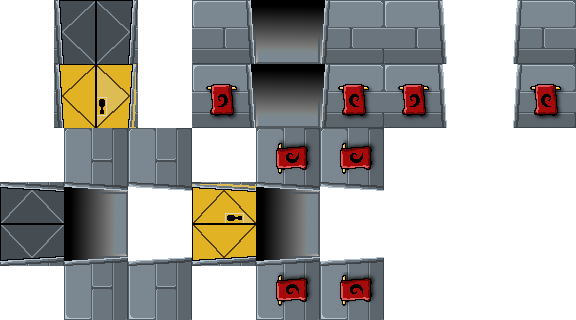
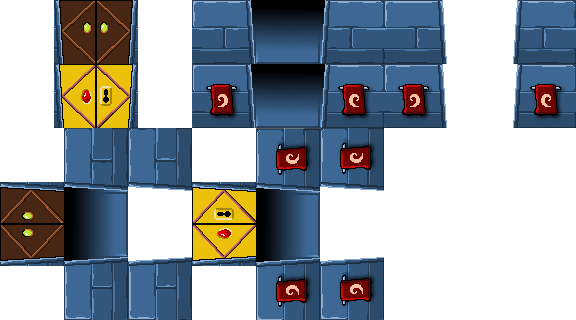
ADD New art for tiles and doors

diff --git a/src/WitchBlastGame.cpp b/src/WitchBlastGame.cpp
@@ -487,7 +487,7 @@ void WitchBlastGame::openDoors()
     int i, j;
     for(i = 0; i < MAP_WIDTH; i++)
       for(j = 0; j < MAP_WIDTH; j++)
-        if (currentMap->getTile(i, j) == MAP_DOOR) currentMap->setTile(i, j, 0);
+        if (currentMap->getTile(i, j) == MAP_DOOR) currentMap->setTile(i, j, MAP_DOOR_OPEN);
   roomClosed = false;
   SoundManager::getSoundManager()->playSound(SOUND_DOOR_OPENING);
 

diff --git a/src/DungeonMap.h b/src/DungeonMap.h
@@ -5,8 +5,9 @@
 #include "sfml_game/MyTools.h"
 #include <list>
 
-const int MAP_NORMAL_FLOOR  =   3;
+const int MAP_NORMAL_FLOOR  =   7;
 const int MAP_STAIRS_UP     =   39;
+const int MAP_DOOR_OPEN     =   49;
 const int MAP_WALL          =   50;
 const int MAP_DOOR          =   51;
 const int MAP_WALL_7        =   52;

diff --git a/src/DungeonMap.cpp b/src/DungeonMap.cpp
@@ -259,7 +259,7 @@ void DungeonMap::initRoom()
     for ( j = 1 ; j < height - 1 ; j++)
     {
       map[i][j] = 0;
-      if (rand()%8 == 0) map[i][j] = rand()%(MAP_NORMAL_FLOOR + 1);
+      if (rand()%7 == 0) map[i][j] = rand()%(MAP_NORMAL_FLOOR + 1);
     }
 
   if (gameFloor != NULL)
